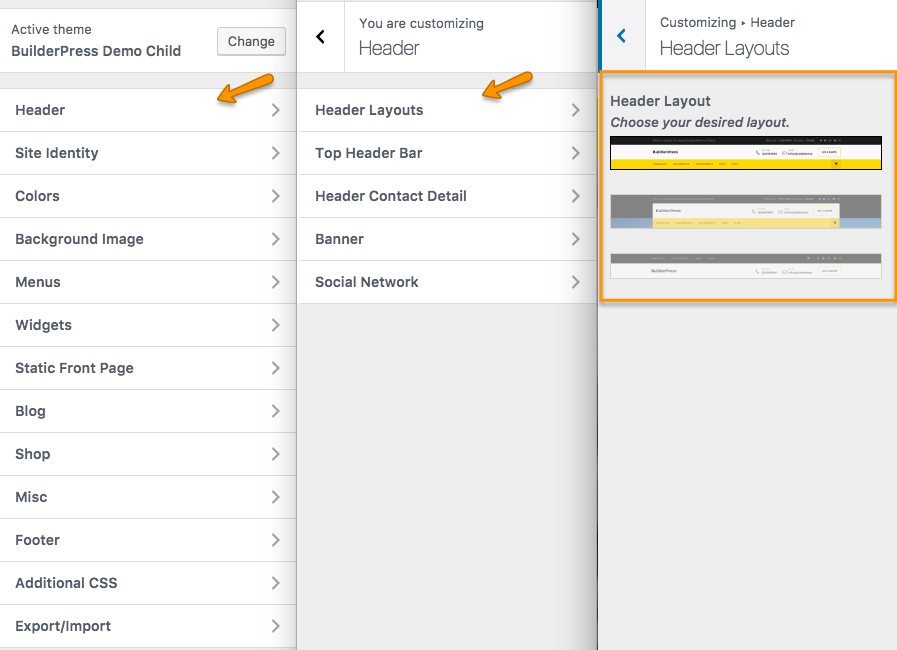
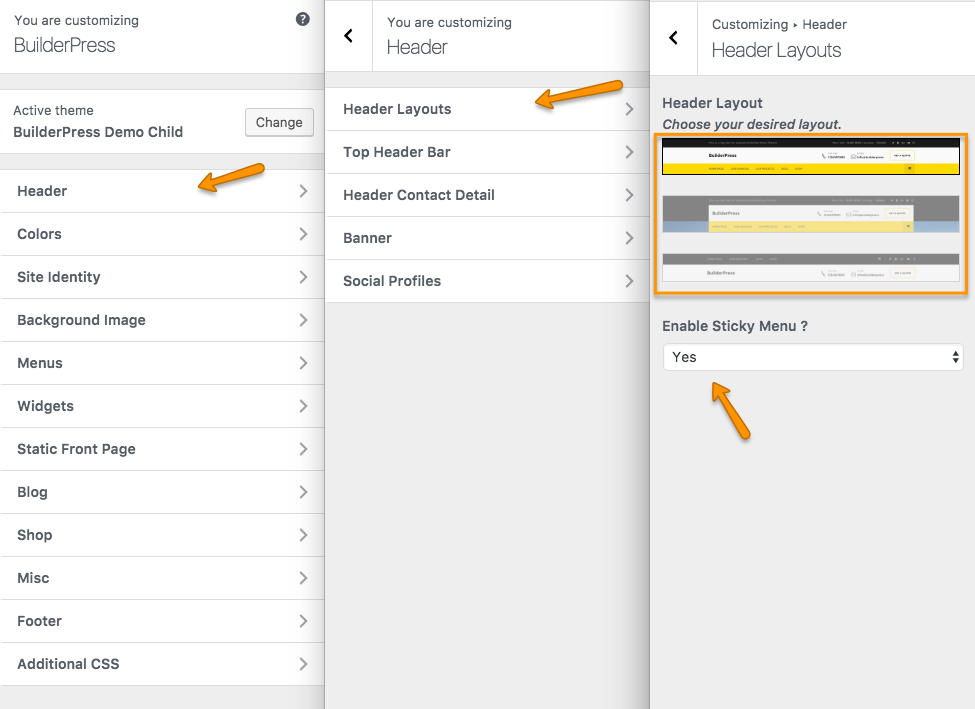
color scheme and sticky header docs added

diff --git a/docs/customizer.md b/docs/customizer.md
@@ -9,7 +9,7 @@ For Customize options go to <strong>Appearance > Customize</strong>
 
 
 <li>
-Select header layout from <strong>Header > Header Layouts </strong>
+Select header layout from <strong>Header > Header Layouts </strong>. You can also enable <strong>Sticky Menu</strong>.
 </br>
 <img src="../img/customizer-header-layout.png" alt="Customizer">
 </br>
@@ -72,6 +72,12 @@ Enter Social Network details from <strong>Header > Social Network</strong>. You 
 
 
 </ol>
+<div class="section-separator"></div>
+##Colors
+Select your desired <strong>Color Schemes</strong> from Customizer <strong>Colors</strong>. You can set your own <strong>Custom Theme Color Schemes</strong> by giving hex code as shown in image below. You can also set top menu color and hover color.
+</br>
+<img src="../img/customizer-color-schemes.png" alt="Customizer">
+
 <div class="section-separator"></div>
 ##Site Identity
 
